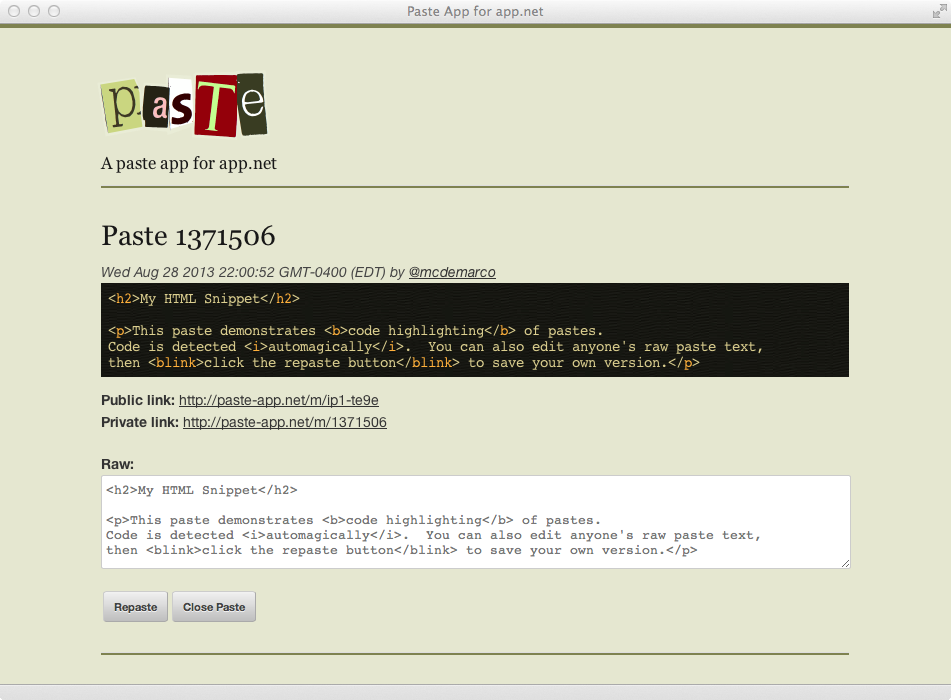
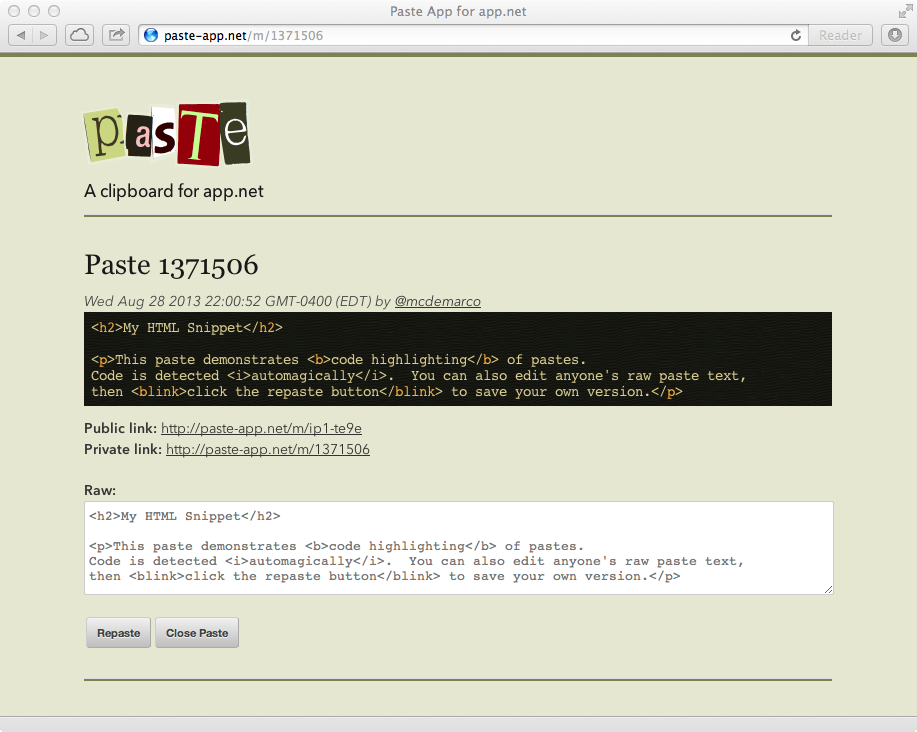
Font & asset changes
Changed font to Avenir in places.  Screenshot update.

diff --git a/css/paste.css b/css/paste.css
@@ -73,3 +73,16 @@ h1 a {
 h1 img {
     margin-left: -7px;
 }
+
+body {
+    font-family: "Avenir Next", "HelveticaNeue", "Helvetica Neue", Helvetica, Arial, sans-serif;
+}
+
+h5 {
+    font-family: "Avenir Next", "HelveticaNeue", "Helvetica Neue", Helvetica, Arial, sans-serif;
+    font-weight: 500;
+}
+
+strong {
+    font-weight: 600;
+}
